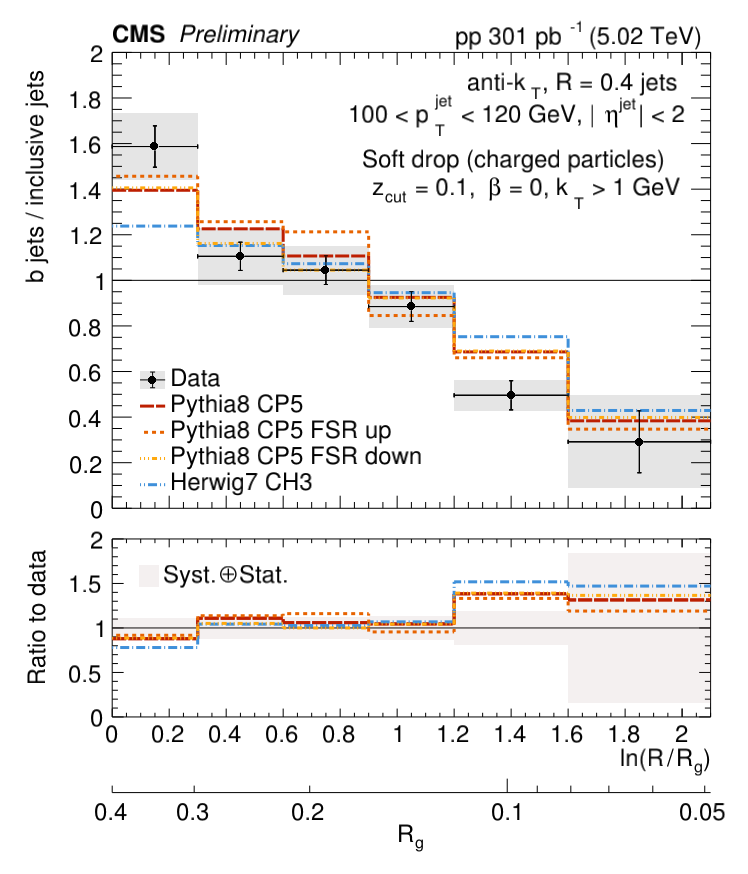
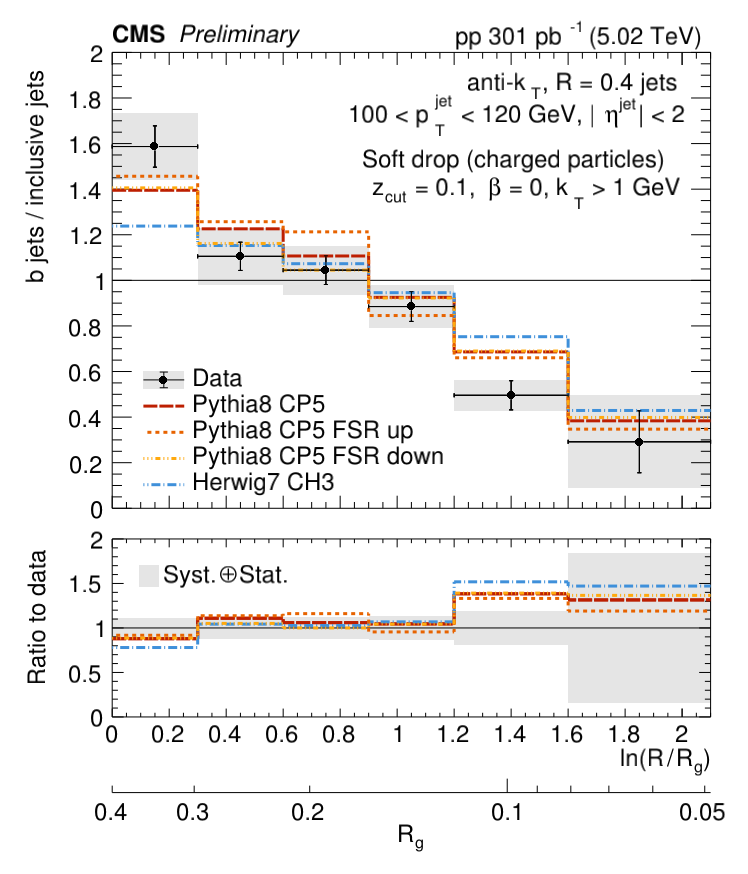
change ratio unc back to gray, make legend wider

Changed region(s): [[0.1845, 0.4016, 0.5842, 0.587]]

diff --git a/myMacros/C106X/draw_bjet_vs_incl.C b/myMacros/C106X/draw_bjet_vs_incl.C
@@ -439,12 +439,12 @@ void draw_bjet_vs_incl(TString observable="rg")
 
     TGraphAsymmErrors *gr_total_unc_ratio = new TGraphAsymmErrors(ibin_x_max-ibin_x_min+1, points_x_ratio, points_y_ratio2, unc_left_ratio, unc_right_ratio, total_unc_down_ratio, total_unc_up_ratio);
     gr_total_unc_ratio->SetFillStyle(1001);
-    gr_total_unc_ratio->SetFillColorAlpha(49, 0.1);
+    gr_total_unc_ratio->SetFillColorAlpha(kBlack, 0.1);
     gr_total_unc_ratio->SetMarkerSize(0);
     gr_total_unc_ratio->SetLineWidth(0);
     gr_total_unc_ratio->SetLineColorAlpha(kBlack, 0.);
 
-    TLegend *leg_ratio = new TLegend(0.18, 0.05, 0.5, 0.3);
+    TLegend *leg_ratio = new TLegend(0.18, 0.05, 0.7, 0.3);
     leg_ratio->SetBorderSize(0);
     leg_ratio->SetFillStyle(0);
     leg_ratio->SetMargin(0.15);
